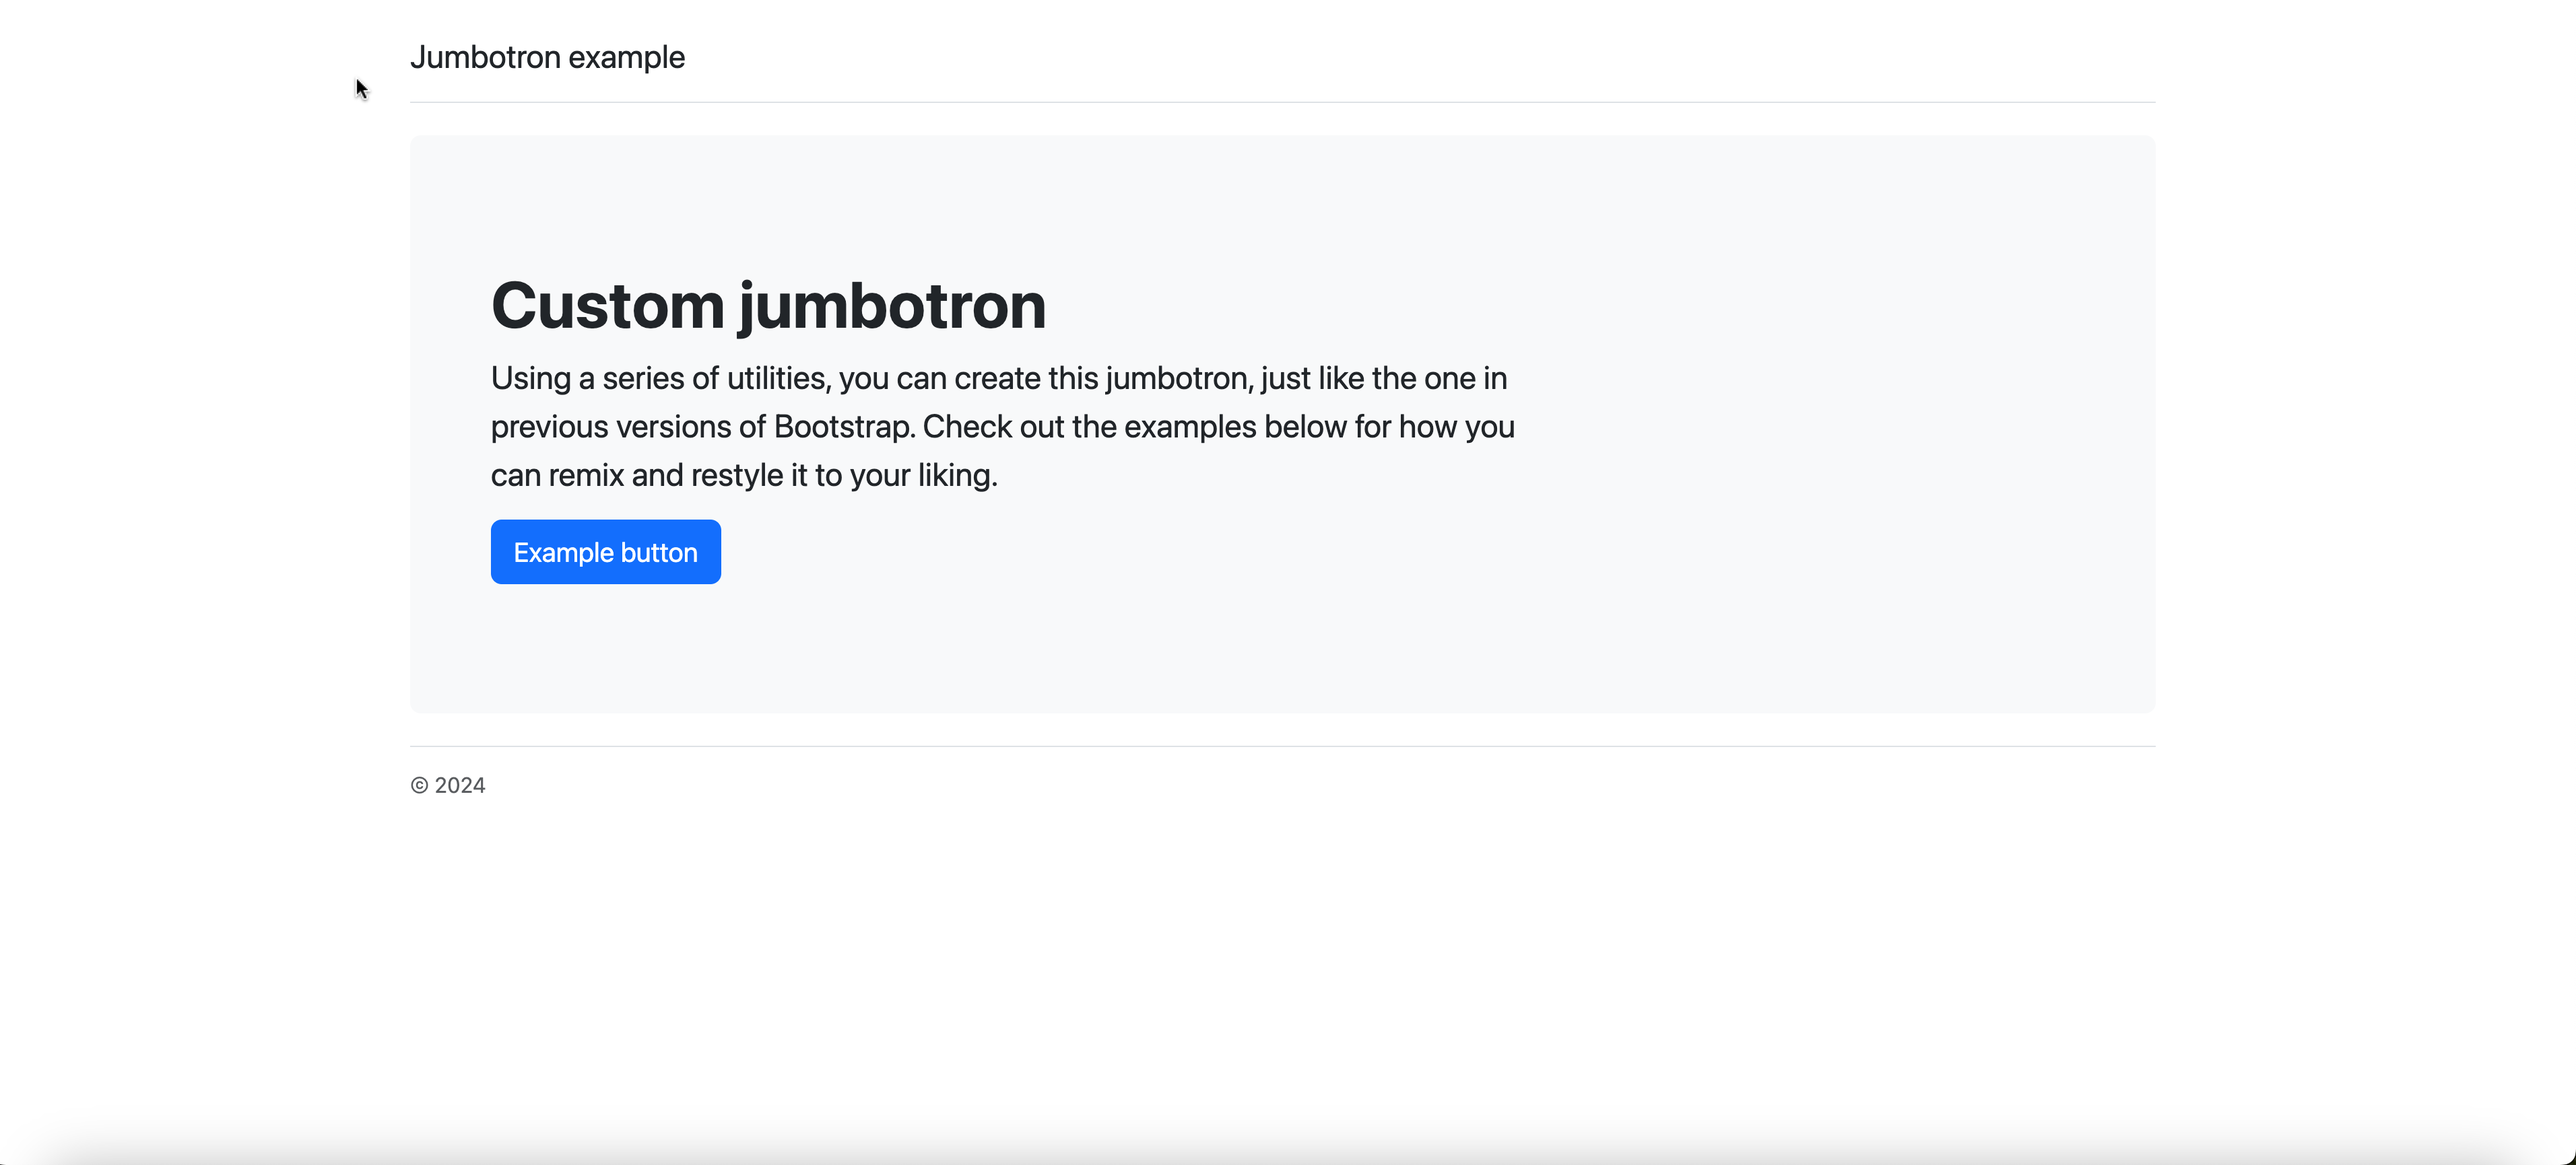
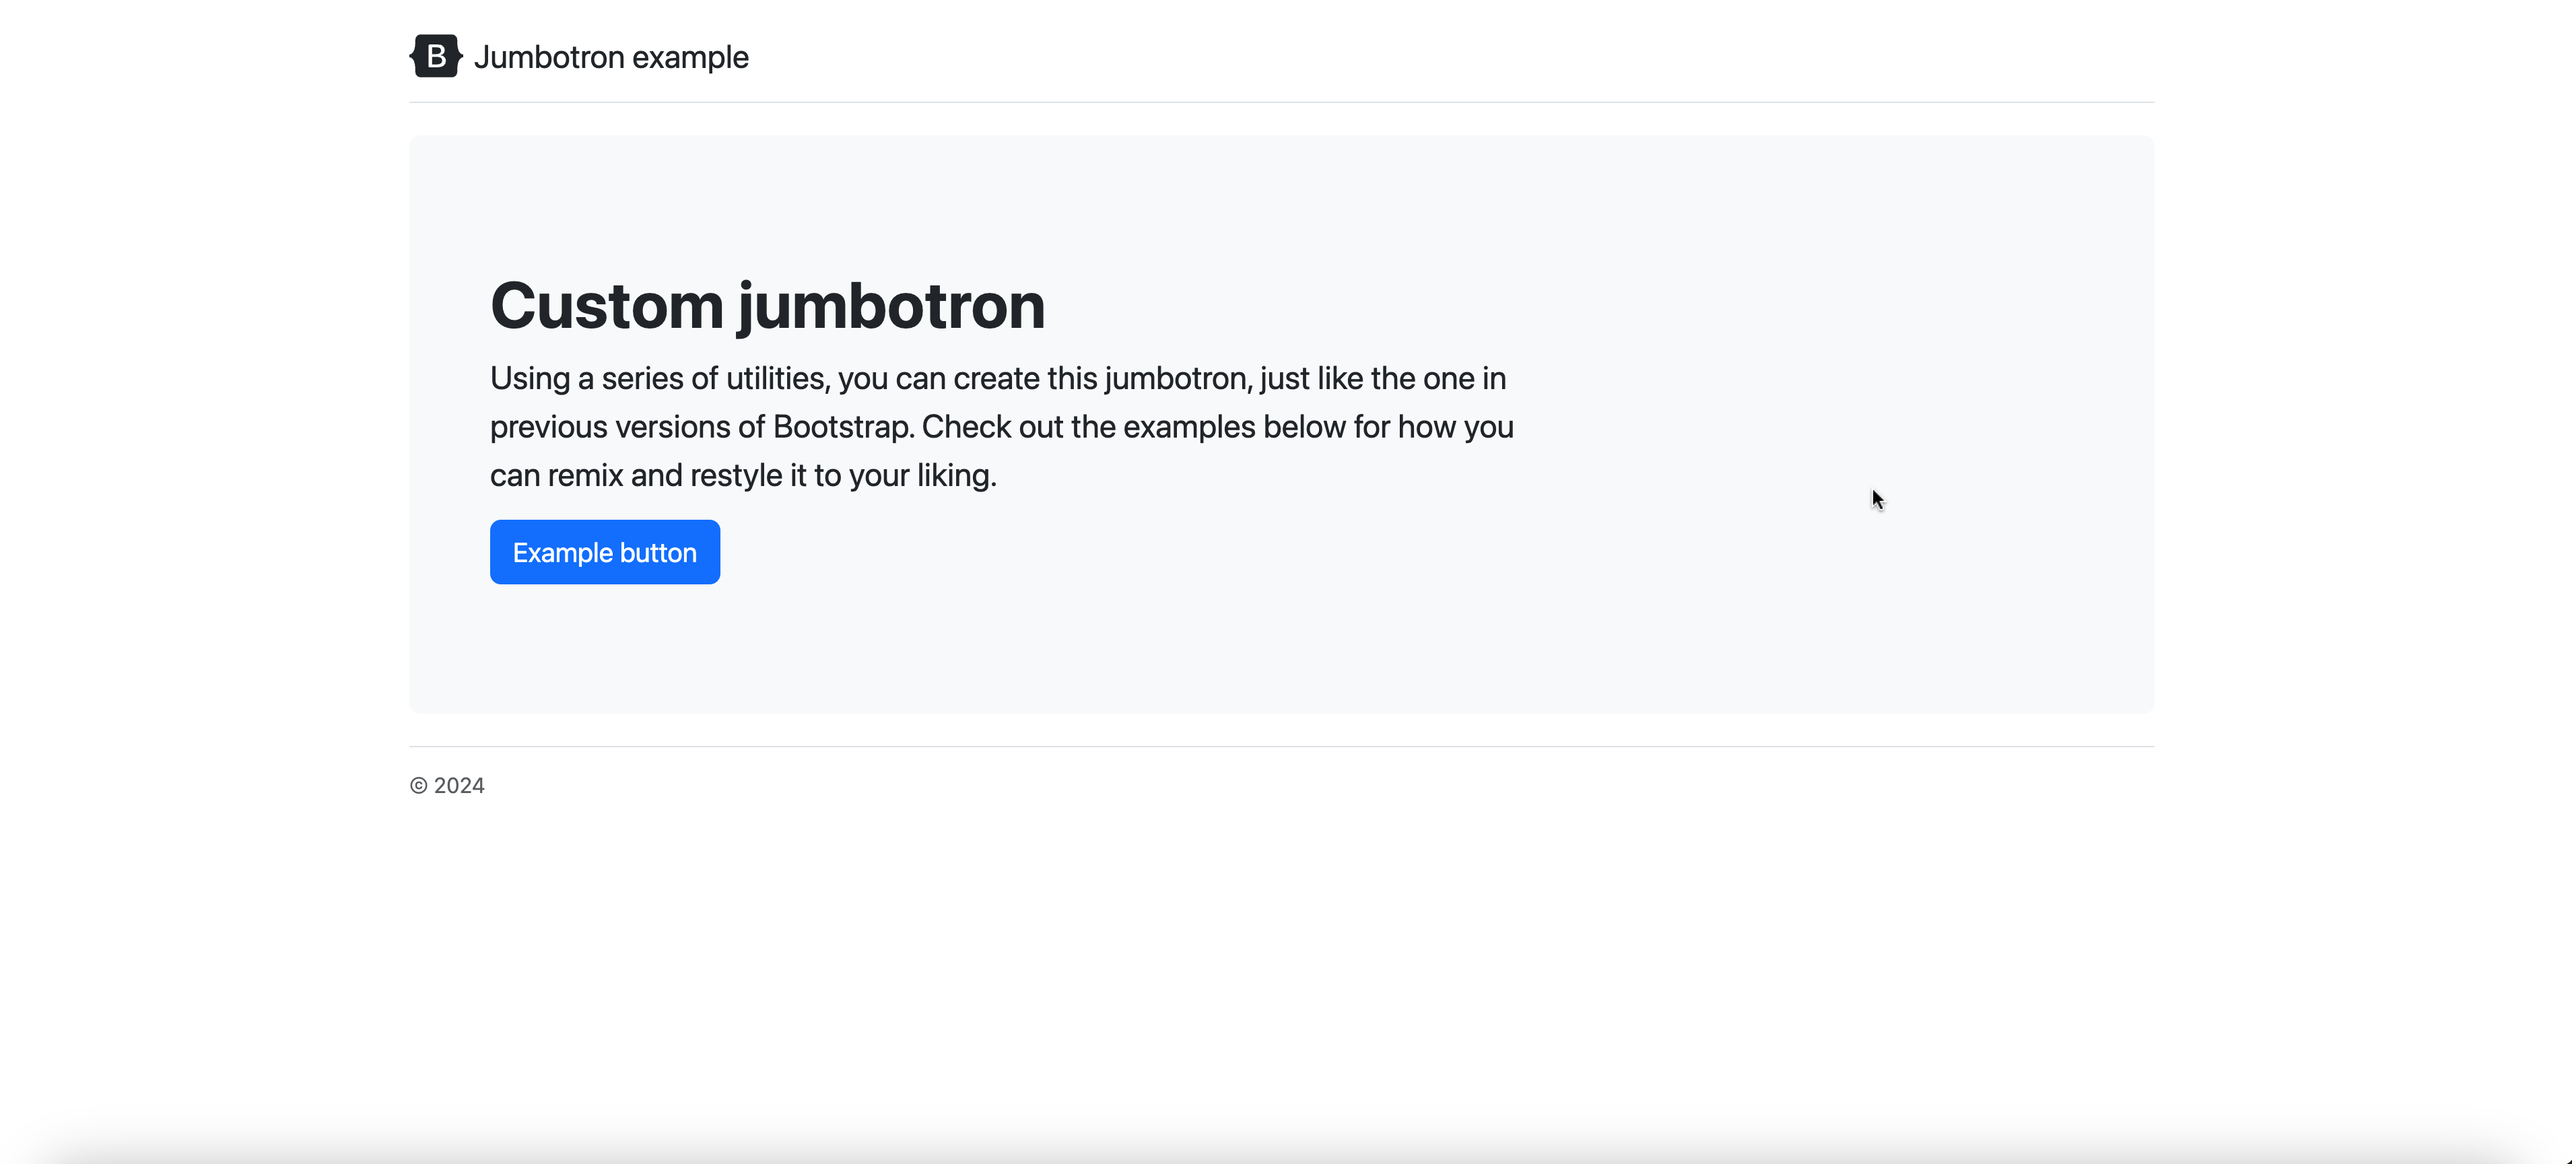
fixed svg content

diff --git a/samples/readme.py b/samples/readme.py
@@ -25,8 +25,37 @@ def template():
                         el.a(
                             href="/",
                             class_name="d-flex align-items-center text-dark text-decoration-none",
+                            *(
+                                el.svg(
+                                    width=40,
+                                    height=32,
+                                    class_name="me-2",
+                                    viewBox="0 0 118 94",
+                                    *(
+                                        el.path(
+                                            fill_rule="evenodd",
+                                            clip_rule="evenodd",
+                                            fill="currentColor",
+                                            d=(
+                                                """
+                                M24.509 0c-6.733 0-11.715 5.893-11.492 12.284.214 6.14-.064 14.092-2.066 20.577C8.943
+                                39.365 5.547 43.485 0 44.014v5.972c5.547.529 8.943 4.649 10.951 11.153 2.002 6.485 2.28
+                                14.437 2.066 20.577C12.794 88.106 17.776 94 24.51 94H93.5c6.733 0 11.714-5.893
+                                11.491-12.284-.214-6.14.064-14.092 2.066-20.577 2.009-6.504 5.396-10.624
+                                10.943-11.153v-5.972c-5.547-.529-8.934-4.649-10.943-11.153-2.002-6.484-2.28-14.437-2.066-20.577C105.214
+                                5.894 100.233 0 93.5 0H24.508zM80 57.863C80 66.663 73.436 72 62.543 72H44a2
+                                2 0 01-2-2V24a2 2 0 012-2h18.437c9.083 0 15.044 4.92 15.044 12.474 0 5.302-4.01
+                                10.049-9.119 10.88v.277C75.317 46.394 80 51.21 80 57.863zM60.521 28.34H49.948v14.934h8.905c6.884
+                                0 10.68-2.772 10.68-7.727 0-4.643-3.264-7.207-9.012-7.207zM49.948 49.2v16.458H60.91c7.167
+                                0 10.964-2.876 10.964-8.281 0-5.406-3.903-8.178-11.425-8.178H49.948z
+                                """
+                                            ),
+                                        ),
+                                    ),
+                                ),
+                                el.span("Jumbotron example", class_name="fs-4"),
+                            ),
                         ),
-                        el.span("Jumbotron example", class_name="fs-4"),
                     ),
                 ),
                 el.div(
@@ -40,9 +69,9 @@ def template():
                                 ),
                                 el.p(
                                     """
-                        Using a series of utilities, you can create this jumbotron, just like the one in previous versions of Bootstrap.
-                         Check out the examples below for how you can remix and restyle it to your liking.
-                        """,
+                            Using a series of utilities, you can create this jumbotron, just like the one in previous versions of Bootstrap.
+                             Check out the examples below for how you can remix and restyle it to your liking.
+                            """,
                                     class_name="col-md-8 fs-4",
                                 ),
                                 el.button(

diff --git a/py_html/el/elements/images.py b/py_html/el/elements/images.py
@@ -162,6 +162,7 @@ class Svg(BaseHTML):
 
     def __init__(
         self,
+        *content: t.Any,
         height: t.Optional[t.Any] = None,
         width: t.Optional[t.Any] = None,
         xmlns: str = "http://www.w3.org/2000/svg",
@@ -170,6 +171,7 @@ class Svg(BaseHTML):
         **attrs,
     ) -> None:
         super().__init__(
+            *content,
             height=height,
             width=width,
             xmlns=xmlns,

diff --git a/README.md b/README.md
@@ -45,32 +45,32 @@ def template():
                     el.a(href="/", class_name="d-flex align-items-center text-dark text-decoration-none", *(
                         el.svg(width=40, height=32, class_name="me-2", viewBox="0 0 118 94", *(
                             el.path(fill_rule="evenodd", clip_rule="evenodd", fill="currentColor", d=(
-                               """
-                               M24.509 0c-6.733 0-11.715 5.893-11.492 12.284.214 6.14-.064 14.092-2.066 20.577C8.943 
-                               39.365 5.547 43.485 0 44.014v5.972c5.547.529 8.943 4.649 10.951 11.153 2.002 6.485 2.28 
-                               14.437 2.066 20.577C12.794 88.106 17.776 94 24.51 94H93.5c6.733 0 11.714-5.893 
-                               11.491-12.284-.214-6.14.064-14.092 2.066-20.577 2.009-6.504 5.396-10.624 
-                               10.943-11.153v-5.972c-5.547-.529-8.934-4.649-10.943-11.153-2.002-6.484-2.28-14.437-2.066-20.577C105.214 
-                               5.894 100.233 0 93.5 0H24.508zM80 57.863C80 66.663 73.436 72 62.543 72H44a2 
-                               2 0 01-2-2V24a2 2 0 012-2h18.437c9.083 0 15.044 4.92 15.044 12.474 0 5.302-4.01 
-                               10.049-9.119 10.88v.277C75.317 46.394 80 51.21 80 57.863zM60.521 28.34H49.948v14.934h8.905c6.884 
-                               0 10.68-2.772 10.68-7.727 0-4.643-3.264-7.207-9.012-7.207zM49.948 49.2v16.458H60.91c7.167 
-                               0 10.964-2.876 10.964-8.281 0-5.406-3.903-8.178-11.425-8.178H49.948z
-                               """ 
+                                """
+                                M24.509 0c-6.733 0-11.715 5.893-11.492 12.284.214 6.14-.064 14.092-2.066 20.577C8.943 
+                                39.365 5.547 43.485 0 44.014v5.972c5.547.529 8.943 4.649 10.951 11.153 2.002 6.485 2.28 
+                                14.437 2.066 20.577C12.794 88.106 17.776 94 24.51 94H93.5c6.733 0 11.714-5.893 
+                                11.491-12.284-.214-6.14.064-14.092 2.066-20.577 2.009-6.504 5.396-10.624 
+                                10.943-11.153v-5.972c-5.547-.529-8.934-4.649-10.943-11.153-2.002-6.484-2.28-14.437-2.066-20.577C105.214 
+                                5.894 100.233 0 93.5 0H24.508zM80 57.863C80 66.663 73.436 72 62.543 72H44a2 
+                                2 0 01-2-2V24a2 2 0 012-2h18.437c9.083 0 15.044 4.92 15.044 12.474 0 5.302-4.01 
+                                10.049-9.119 10.88v.277C75.317 46.394 80 51.21 80 57.863zM60.521 28.34H49.948v14.934h8.905c6.884 
+                                0 10.68-2.772 10.68-7.727 0-4.643-3.264-7.207-9.012-7.207zM49.948 49.2v16.458H60.91c7.167 
+                                0 10.964-2.876 10.964-8.281 0-5.406-3.903-8.178-11.425-8.178H49.948z
+                                """
                             )),
                         )),
+                        el.span("Jumbotron example", class_name="fs-4")
                     )),
-                    el.span("Jumbotron example", class_name="fs-4")
                 )
             ),
             el.div(class_name="p-5 mb-4 bg-light rounded-3", *(
                 el.div(class_name="container-fluid py-5", *(
                     el.h1("Custom jumbotron", class_name="display-5 fw-bold"),
                     el.p("""
-                        Using a series of utilities, you can create this jumbotron, just like the one in previous versions of Bootstrap.
-                         Check out the examples below for how you can remix and restyle it to your liking.
-                        """, class_name="col-md-8 fs-4"
-                    ),
+                            Using a series of utilities, you can create this jumbotron, just like the one in previous versions of Bootstrap.
+                             Check out the examples below for how you can remix and restyle it to your liking.
+                            """, class_name="col-md-8 fs-4"
+                         ),
                     el.button("Example button", class_name="btn btn-primary btn-lg", type="button")
                 )),
             )),
